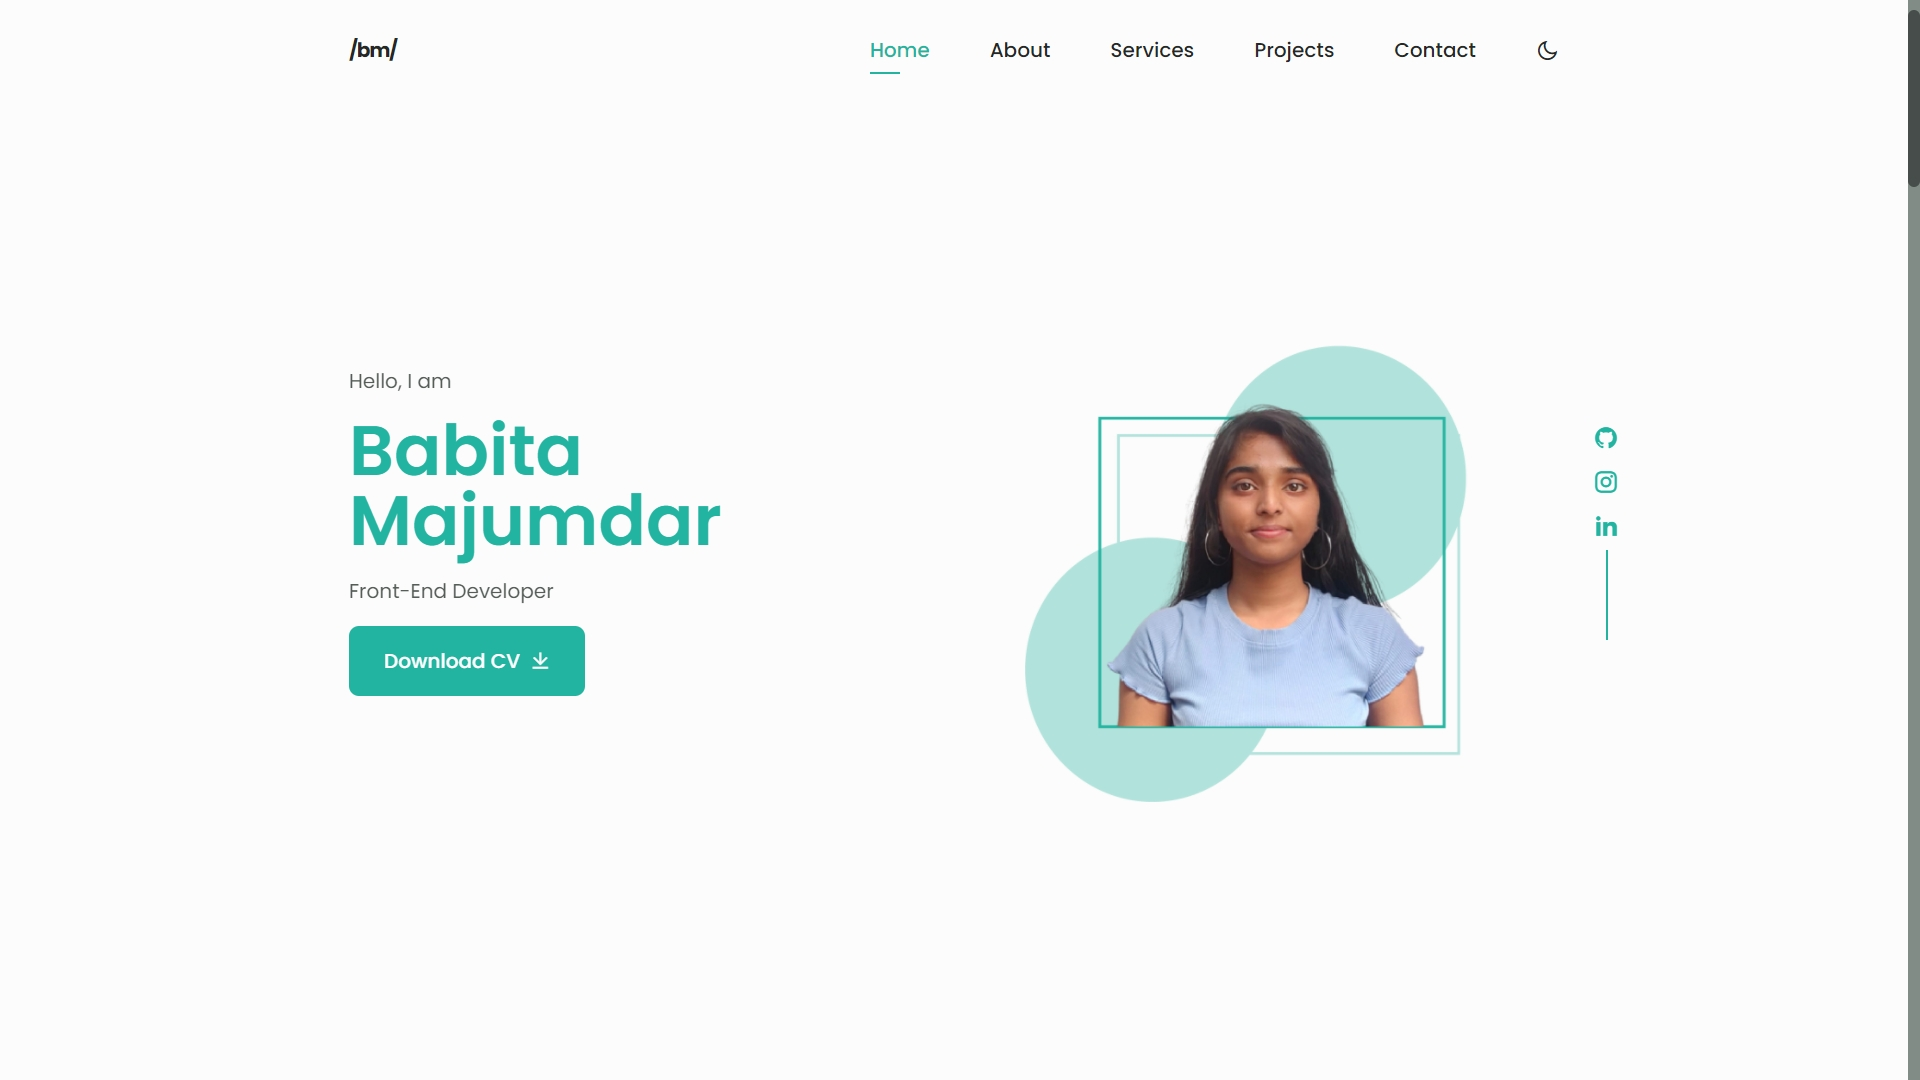
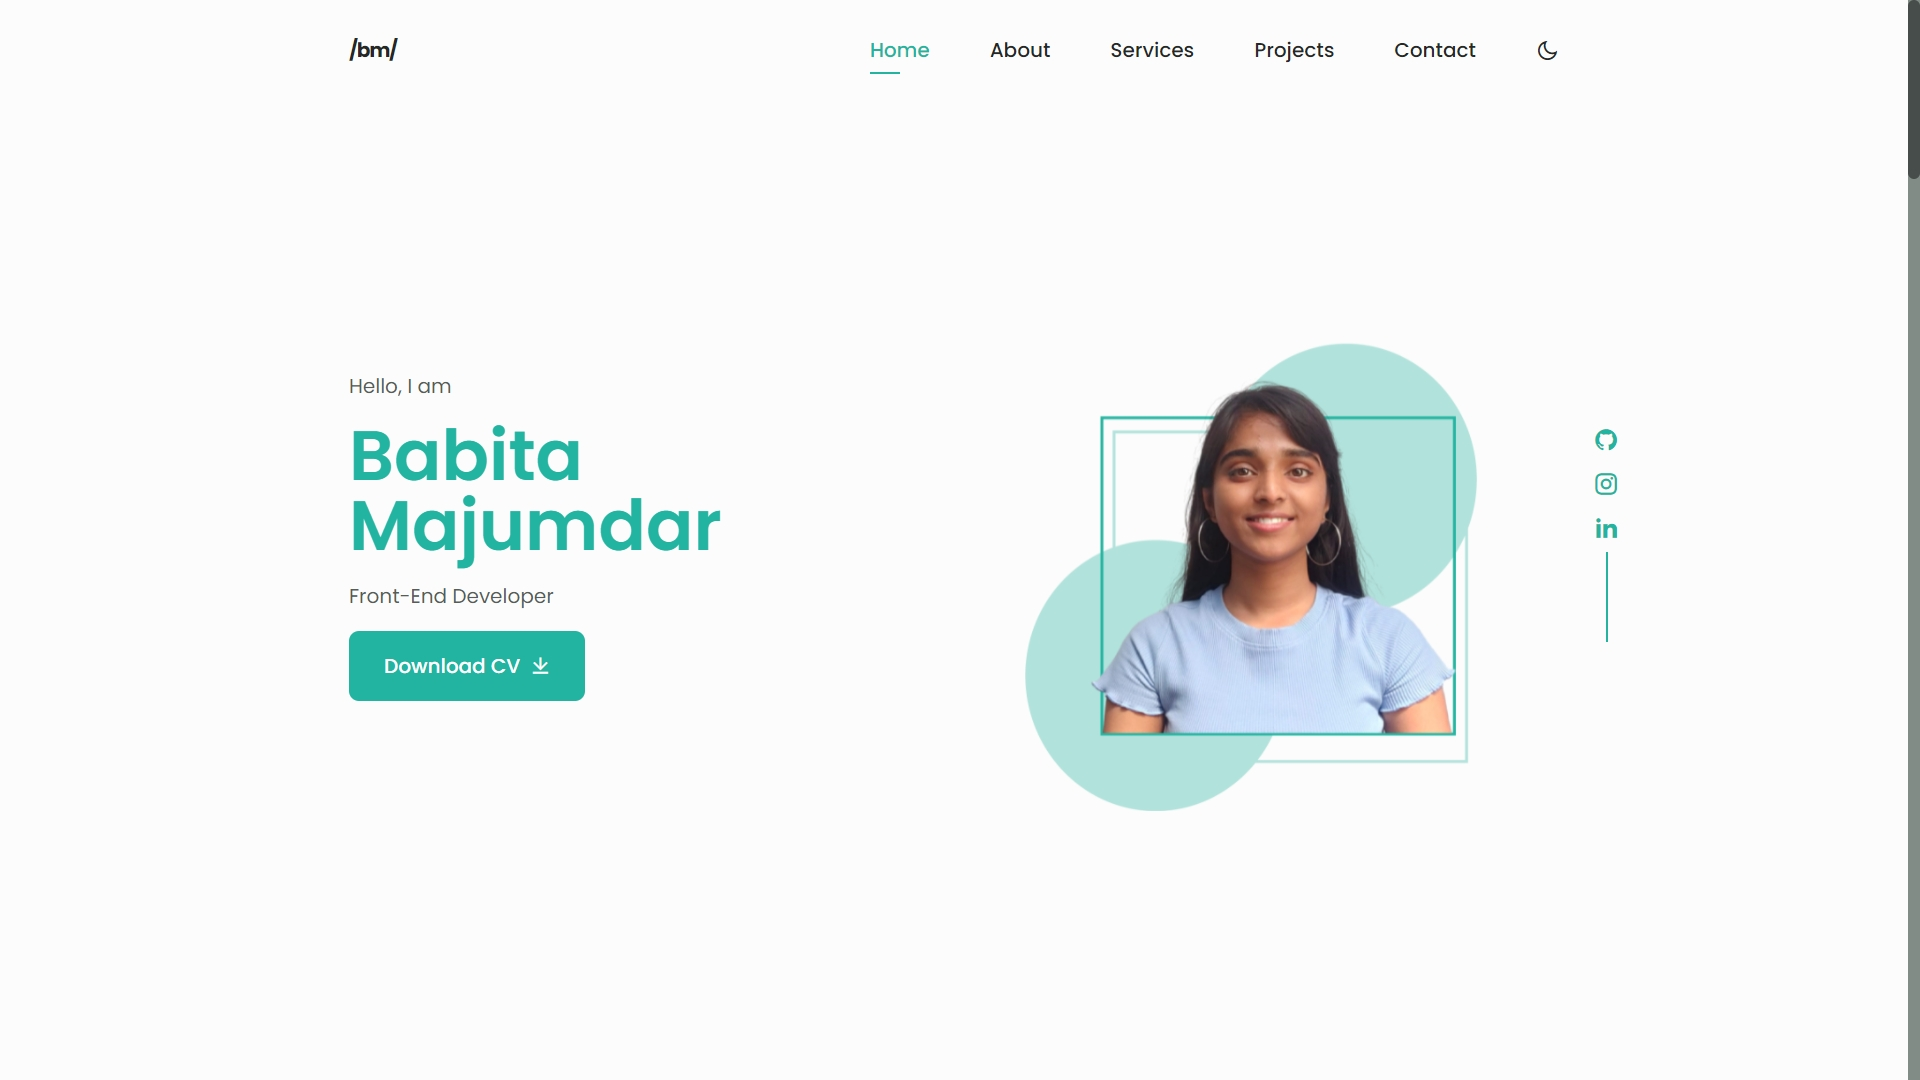
fixed images and preview

diff --git a/index.html b/index.html
@@ -78,7 +78,7 @@
          <!--==================== HOME ====================-->
          <section class="home" id="home">
              <div class="home__container container grid">
-                 <img src="assets/img/me3.png" alt="" class="home__img">
+                 <img src="assets/img/me.png" alt="" class="home__img">
 
                  <div class="home__data">
                         <p class="home__description">
